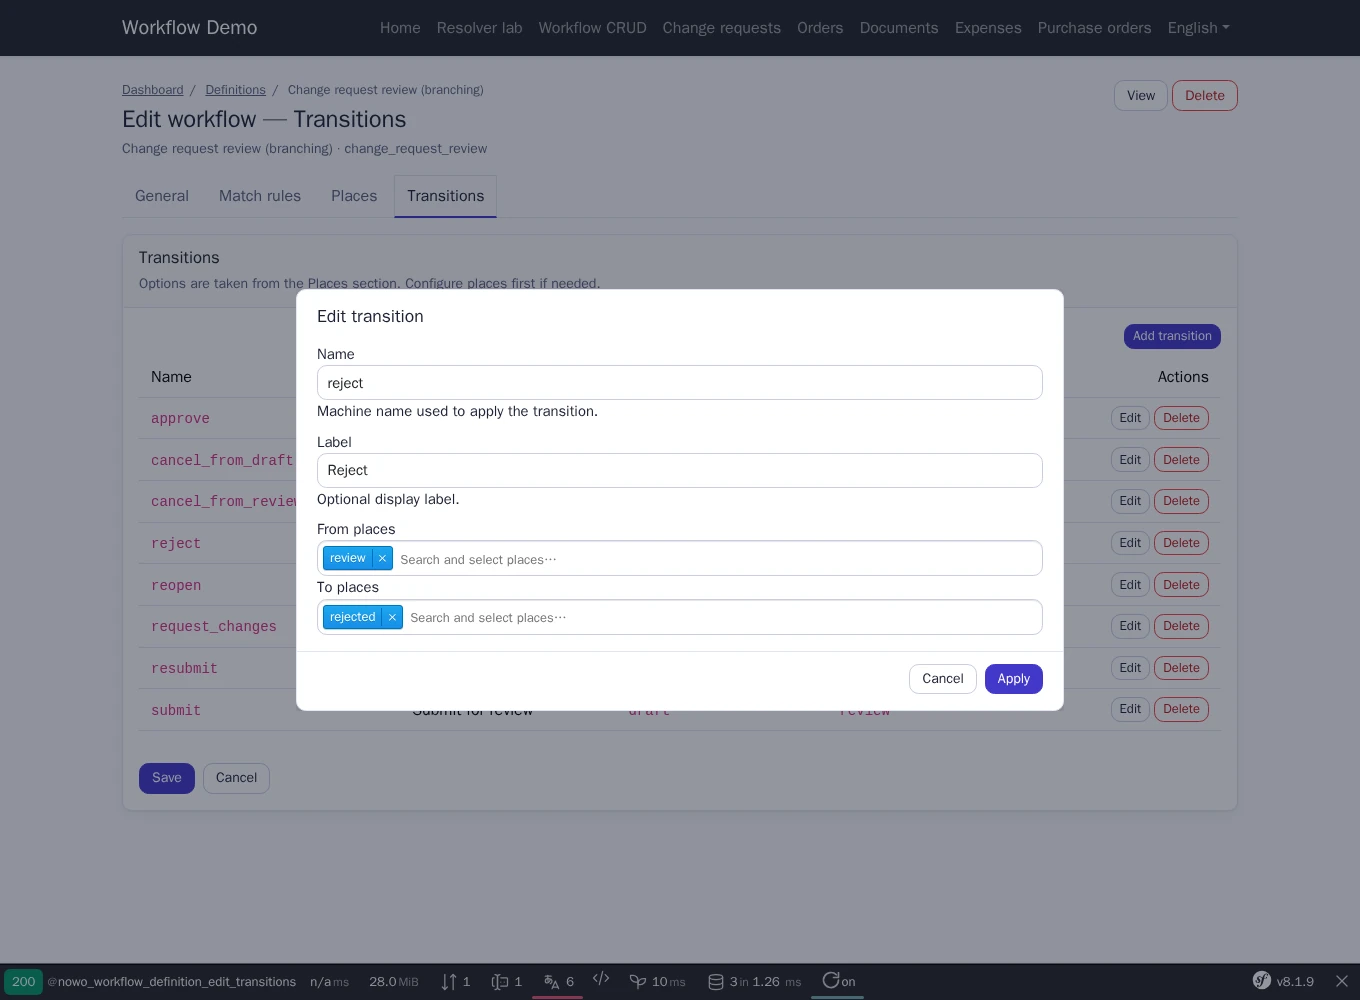
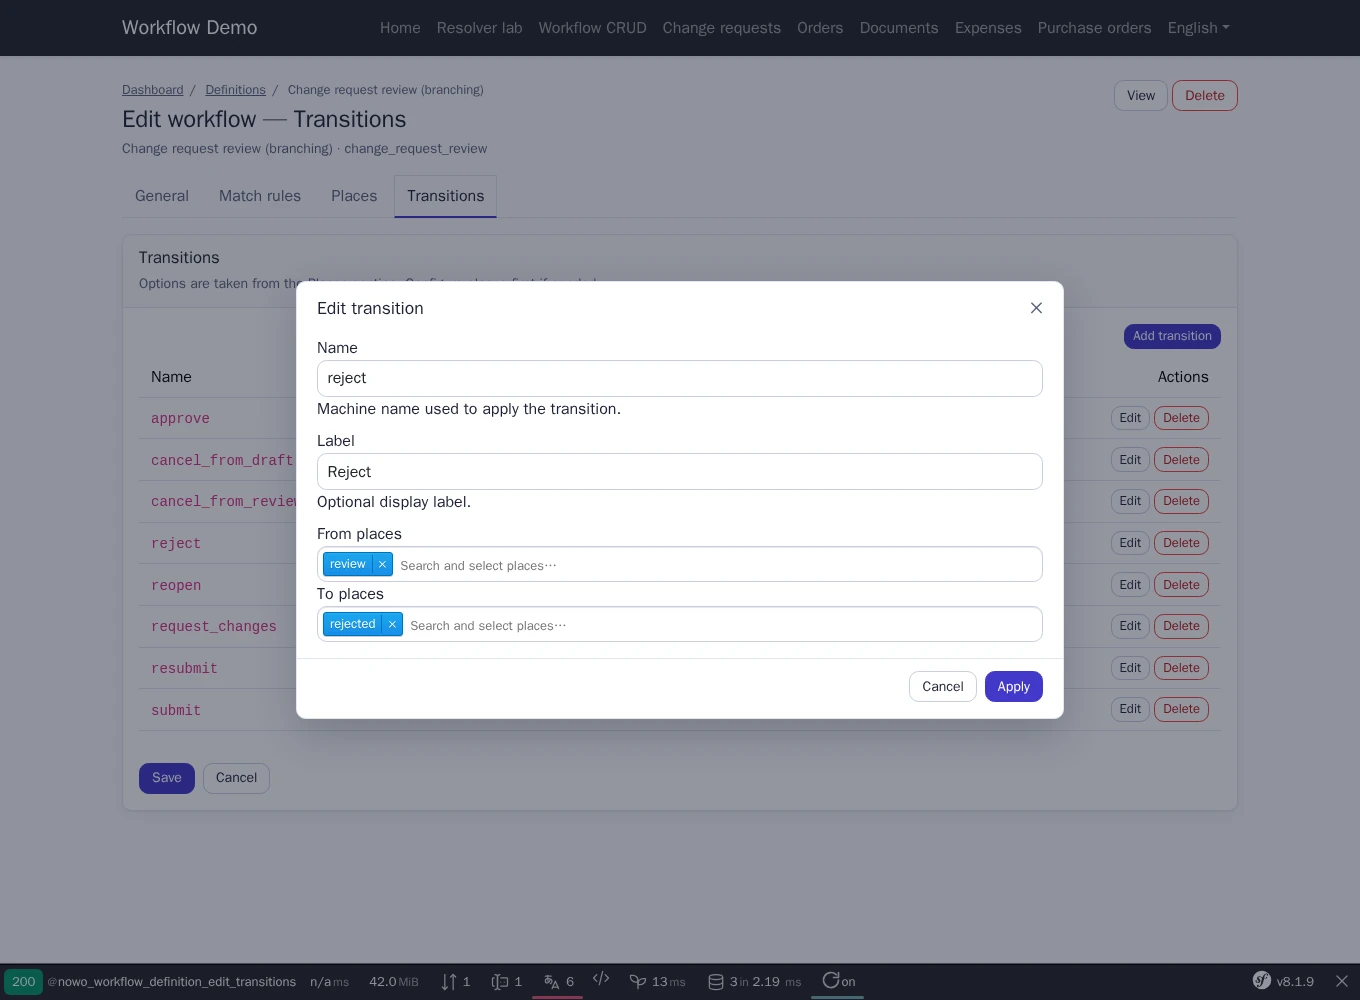
chore(demo): lock nowo-tech/ui-kit-bundle 2.1.0, e2e on the UiKit dialog, re-captured transition editor screenshot

Changed region(s): [[0.2162, 0.279, 0.7721, 0.651], [0.2162, 0.651, 0.7721, 0.744]]

diff --git a/demo/symfony8/e2e/tests/demo.spec.ts b/demo/symfony8/e2e/tests/demo.spec.ts
@@ -1,15 +1,16 @@
 import { test, expect, type Page } from '@playwright/test';
 
 /**
- * REQ-DEMO-013 — Workflow admin UI on the UiKit 2.0 page contract (REQ-UI-003): every page renders through the
- * demo host layout, dialogs are native <dialog>s (no Bootstrap JS, no confirm()), the collection editors work and
- * no browser error is logged. The demo must be seeded (make reset-demo) before running.
+ * REQ-DEMO-013 — Workflow admin UI on the UiKit 2.1 page contract (REQ-UI-003): every page renders through the
+ * demo host layout, dialogs are native <dialog>s (UiKit `dialog` partial; no Bootstrap JS, no confirm()), the
+ * collection editors work and no browser error is logged. The demo must be seeded (make reset-demo) before running.
  */
 function collectErrors(page: Page): string[] {
   const errors: string[] = [];
   page.on('pageerror', (error) => errors.push(error.message));
   page.on('console', (message) => {
-    if (message.type() === 'error') {
+    // The WebProfiler toolbar may load before its profile is stored (404 on /_wdt): not a page error.
+    if (message.type() === 'error' && !/_wdt|favicon/.test(message.location().url)) {
       errors.push(message.text());
     }
   });
@@ -114,6 +115,12 @@ test.describe('workflow admin (UiKit page contract)', () => {
     await expect(page.locator('#workflow-transitions-editor[open] .ts-control')).toHaveCount(2);
     await page.locator('#workflow-transitions-editor [data-dialog-cancel]').click();
     await expect(page.locator('dialog[open]')).toHaveCount(0);
+
+    // The UiKit dialog header close button discards the entry like Cancel / Esc.
+    await page.locator('[data-workflow-collection="transitions"] tbody tr').first().locator('[data-row-edit]').click();
+    await page.locator('#workflow-transitions-editor[open] [data-nowo-ui-dialog-close]').click();
+    await expect(page.locator('dialog[open]')).toHaveCount(0);
+    await expect(page.locator('#workflow-transitions-editor [data-dialog-body]')).toBeEmpty();
 
     expect(errors).toEqual([]);
   });

diff --git a/demo/symfony8/config/reference.php b/demo/symfony8/config/reference.php
@@ -1095,6 +1095,11 @@ use Symfony\Component\Config\Loader\ParamConfigurator as Param;
  *             partials?: array<string, scalar|Param|null>,
  *             tokens?: array<string, mixed>,
  *             tokens_dark?: array<string, mixed>,
+ *             pages?: array<string, array{ // Default: []
+ *                 framework_defaults?: bool|Param, // Override of theme.framework_defaults for this page type (unset = inherit).
+ *                 classes?: array<string, mixed>,
+ *                 attributes?: array<string, array<string, mixed>>,
+ *             }>,
  *         }>,
  *         pages?: array<string, array{ // Default: []
  *             framework_defaults?: bool|Param, // Override of theme.framework_defaults for this page type (unset = inherit).
